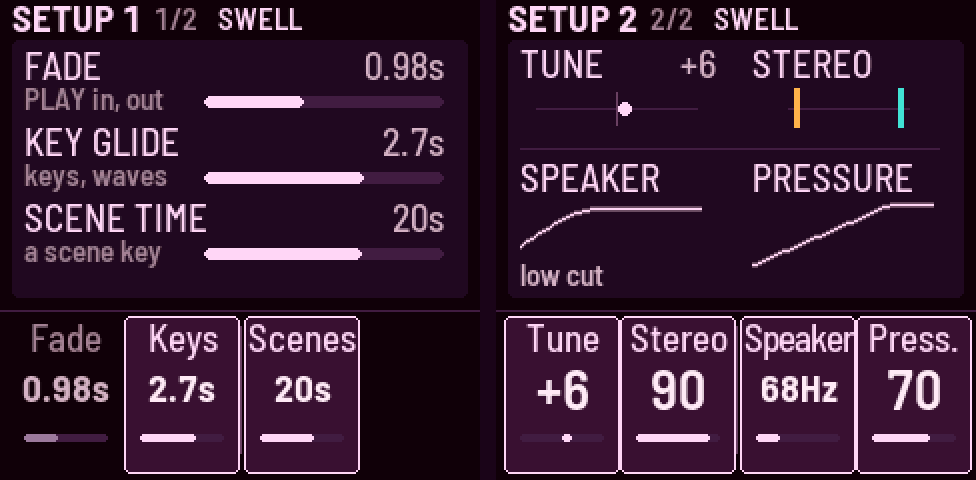
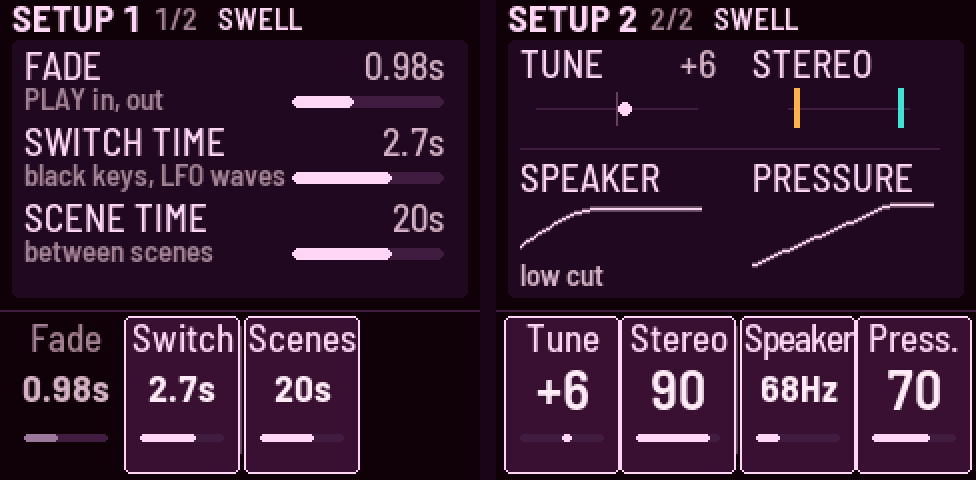
Switch time and Pitch glide: clearer names for the times
"Key glide" with "keys, waves" read like a musical key, next to Glide.
Now Setup 1 says SWITCH TIME (black keys, LFO waves) and SCENE TIME
(between scenes), with the bars moved right to fit the hints; Glide on
Pitch moves is Pitch glide.

diff --git a/web/emu/index.html b/web/emu/index.html
@@ -384,7 +384,7 @@ kbd { font: 500 .85em var(--mono); background: var(--card); border: 1px solid va
         <div class="g-btn">SEQ</div>
         <div class="pstack">
         <div class="g-page"><i>Partner</i><span class="k d1"><span class="sr">Knob 1, drone I: </span>Interval<small>its gap, tempered or just</small></span><span class="k d1"><span class="sr">Knob 2, drone I: </span>Detune</span><span class="k d2"><span class="sr">Knob 3, drone II: </span>Interval<small>its gap, tempered or just</small></span><span class="k d2"><span class="sr">Knob 4, drone II: </span>Detune</span></div>
-        <div class="g-page"><i>Pitch moves</i><span class="k both"><span class="sr">Knob 1: </span>Shift<small>its move, a 5th down–up</small></span><span class="k both"><span class="sr">Knob 2: </span>Glide<small>pitch slides</small></span><span class="k d2"><span class="sr">Knob 3, drone II: </span>Wander<small>a random melody: how often</small></span><span class="k d2"><span class="sr">Knob 4, drone II: </span>Scale<small>Wander’s notes</small></span></div>
+        <div class="g-page"><i>Pitch moves</i><span class="k both"><span class="sr">Knob 1: </span>Shift<small>its move, a 5th down–up</small></span><span class="k both"><span class="sr">Knob 2: </span>Pitch glide<small>pitch slides</small></span><span class="k d2"><span class="sr">Knob 3, drone II: </span>Wander<small>a random melody: how often</small></span><span class="k d2"><span class="sr">Knob 4, drone II: </span>Scale<small>Wander’s notes</small></span></div>
         </div>
       </div>
     </div>
@@ -528,7 +528,7 @@ kbd { font: 500 .85em var(--mono); background: var(--card); border: 1px solid va
       <div class="pblock">
         <div class="g-btn">GLO</div>
         <div class="pstack">
-        <div class="g-page"><i>Setup 1</i><span class="k both"><span class="sr">Knob 1: </span>Fade<small>PLAY’s fade</small></span><span class="k both"><span class="sr">Knob 2: </span>Key glide<small>keys, waves</small></span><span class="k both"><span class="sr">Knob 3: </span>Scene time<small>every scene move</small></span><span class="k both none"><span class="sr">Knob 4: </span>–</span></div>
+        <div class="g-page"><i>Setup 1</i><span class="k both"><span class="sr">Knob 1: </span>Fade<small>PLAY’s fade</small></span><span class="k both"><span class="sr">Knob 2: </span>Switch time<small>black keys, LFO waves</small></span><span class="k both"><span class="sr">Knob 3: </span>Scene time<small>between scenes</small></span><span class="k both none"><span class="sr">Knob 4: </span>–</span></div>
         <div class="g-page"><i>Setup 2</i><span class="k both"><span class="sr">Knob 1: </span>Tune<small>±50 cents</small></span><span class="k both"><span class="sr">Knob 2: </span>Stereo<small>width</small></span><span class="k both"><span class="sr">Knob 3: </span>Speaker<small>low cut</small></span><span class="k both"><span class="sr">Knob 4: </span>Pressure<small>light ↔ firm</small></span></div>
         </div>
       </div>
@@ -665,8 +665,8 @@ function hit(c, cls) {
 // what each control does, on hover (the Buttons list below says the same)
 const TIP = { FX: "Delay: type, time, repeats, mix (again: Reverb: type, length to Inf, damp, mix)", SEL: "Hold while turning: fine (pitch in cents, cutoff and resonance in tenths)",
   ENV: "Tone 1: noise and its colour, white to pink (again: Life: character, feedback, age, drift); hold to peek", LFO: "LFO depths: each drone's osc and filter depth; the keys pick the routing (again: Mods: rate mod, cross-mod amount, delay LFO)",
-  EDIT: "Osc: X-Wave, pulse width (again: Sub · Drive: osc mix, drive); hold to peek", GLO: "Setup 1: fade, key glide, scene time (again: Setup 2: tune, stereo width, speaker, pressure)",
-  HOME: "Play 1: pitch, cutoff (again: Play 2: levels, resonance)", SAVE: "Save; hold it first, then tap a white key: store a scene", ARP: "Swell: tap on / off, hold to peek at its page, tap twice to stay on it", SEQ: "Partner: interval, detune (again: Pitch moves: Shift's move, glide, Wander, its scale)",
+  EDIT: "Osc: X-Wave, pulse width (again: Sub · Drive: osc mix, drive); hold to peek", GLO: "Setup 1: fade, switch time, scene time (again: Setup 2: tune, stereo width, speaker, pressure)",
+  HOME: "Play 1: pitch, cutoff (again: Play 2: levels, resonance)", SAVE: "Save; hold it first, then tap a white key: store a scene", ARP: "Swell: tap on / off, hold to peek at its page, tap twice to stay on it", SEQ: "Partner: interval, detune (again: Pitch moves: Shift's move, pitch glide, Wander, its scale)",
   PLAY: "Drone in / out", REC: "Motion loop: tap to record knob moves, again to loop, again to stop", "OCT-": "LFO Wave I: tap for the next shape (with SEL: the one before)", "OCT+": "LFO Wave II: tap for the next shape (with SEL: the one before)",
   SELECT: "LFO rate", PRESETS: "Gesture time: every gesture faster or slower", ALGORITHM: "Movement: every LFO depth together",
   KNOB1: "Drone I", KNOB2: "Drone I", KNOB3: "Drone II", KNOB4: "Drone II", MASTER: "Volume" };

diff --git a/firmware/src/app/ui.c b/firmware/src/app/ui.c
@@ -14,7 +14,7 @@
  * only while it's held, and the page you were on comes back when it's let go):
  *   HOME Play, Play 2 (Level, Reso) · ENV Tone (Noise, Colour: white .. pink) · EDIT Osc (X-Wave, PW), Source
  *   (Osc mix, Drive) · LFO LFO (depths), Mod (Rate mod, Mod by, X-mod amount, Delay LFO depth) · SEQ Partner ·
- *   GLO Setup, Setup 2 (Key glide, Scene time, Tune, Tuning), Setup 3 (Speaker,
+ *   GLO Setup, Setup 2 (Switch time, Scene time, Tune, Tuning), Setup 3 (Speaker,
  *   Pressure) (global). The top bar shows a dot for each of a
  *   button's pages.
  *   OCT- / OCT+    the LFO's Wave I / Wave II: a tap is the next shape, round and round; SEL + OCT the one
@@ -546,7 +546,7 @@ static void page_up(int b)
 static float morph_ms(void) { return 20.0f * fm_exp2f((float)proj.par[P_MORPH] * 0.105507f); }
 
 /* OCT- / OCT+: the LFO's two waves (v0.2): a tap is the next shape, round and round (Off, the seven, random);
- * SEL + OCT the one before. The engine glides a new shape in over the Key glide time. Shown in the top bar */
+ * SEL + OCT the one before. The engine glides a new shape in over the Switch time. Shown in the top bar */
 static void hands_on(int p) { ui.hands[p / 64] |= (uint64_t)1 << (p % 64); }
 static int hands_has(int p) { return (int)(ui.hands[p / 64] >> (p % 64) & 1u); }
 static void hands_clear(void) { memset(ui.hands, 0, sizeof ui.hands); }
@@ -624,7 +624,7 @@ static void loop_apply(int p, int v, uint32_t slide)
 }
 
 static void loop_rewind(void)                  /* the start of a pass: what the loop moves, back to how it */
-{                                              /* began, gliding over the Key glide time (no seam) */
+{                                              /* began, gliding over the Switch time (no seam) */
     int p;
     uint32_t back = (uint32_t)morph_ms();
     for (p = 0; p < DR_NPARAMS; p++)
@@ -1403,7 +1403,8 @@ static const char *card_name(int p)
     case P_CHAR: return "Char.";
     case P_FEEDBACK: return "Feedbk";
     case P_LFO_RMOD: return "R. mod";
-    case P_MORPH: return "Keys";               /* Key glide */
+    case P_MORPH: return "Switch";             /* Switch time */
+    case P_GLIDE: return "Glide";              /* Pitch glide */
     case P_PRESS_SENS: return "Press.";
     default: break;
     }
@@ -2259,24 +2260,24 @@ static void keymap_values(void)                /* the values' place: the key tou
     cv_text(10, 72, &FONT_XS, "with SEL:  D5-G5 bank   OCT wave back", K_DIM);
 }
 
-/* Setup 1: the three times, a row each: FADE (KNOB 1, PLAY's fade in and out), KEY GLIDE (KNOB 2, a black key's or
+/* Setup 1: the three times, a row each: FADE (KNOB 1, PLAY's fade in and out), SWITCH TIME (KNOB 2, a black key's or
  * a wave's move to its new setting), SCENE TIME (KNOB 3, every scene move); each a bar as far as its knob and its time. None is in scenes */
 static void pic_setup(int32_t y0)
 {
     static const uint8_t P[3] = {P_FADE, P_MORPH, P_SCENE_T};
-    static const char *const N[3] = {"FADE", "KEY GLIDE", "SCENE TIME"},
-                             *const W[3] = {"PLAY in, out", "keys, waves", "a scene key"};
+    static const char *const N[3] = {"FADE", "SWITCH TIME", "SCENE TIME"},
+                             *const W[3] = {"PLAY in, out", "black keys, LFO waves", "between scenes"};
     int r;
     for (r = 0; r < 3; r++) {
-        int32_t y = y0 + 4 + r * 38, w = 120 * proj.par[P[r]] / 100;
+        int32_t y = y0 + 4 + r * 38, w = 76 * proj.par[P[r]] / 100;   /* the bars right of the hints */
         char t[16];
         cv_text(12, y, &FONT_S, N[r], K_SETUP);
         cv_text(12, y + 18, &FONT_XS, W[r], K_DIM);
         dr_param_text(P[r], proj.par[P[r]], t);
         text_r(222, y, t, K_TEXT2);
-        cv_round(102, y + 24, 120, 6, 3, K_GRID);
+        cv_round(146, y + 24, 76, 6, 3, K_GRID);
         if (w > 3)
-            cv_round(102, y + 24, w, 6, 3, K_SETUP);
+            cv_round(146, y + 24, w, 6, 3, K_SETUP);
     }
 }
 

diff --git a/firmware/src/dsp/drone.c b/firmware/src/dsp/drone.c
@@ -42,13 +42,13 @@ static const dr_param_t PARAMS[DR_NPARAMS] = {
     VOICE_PARAMS(5700, 33, 14, 15, 680, 52, DR_LFO_II, DR_LFO_II, -85),  /* II: A3, triangle, partner an octave up */
     {"Cross-mod", 0, 1, 0}, {"X-mod amt", 0, 100, 40}, {"Hard sync", 0, 1, 0}, {"Pitch link", 0, 1, 0},
     {"Link ofs", -2400, 2400, 700}, {"LFO rate", 0, 100, 8}, {"Wave I", 0, DR_LFO_NSHAPES - 1, 1},
-    {"Wave II", 0, DR_LFO_NSHAPES - 1, 8}, {"Glide", 0, 100, 0}, {"Fade", 0, 100, 42}, {"Drift", 0, 100, 30},
+    {"Wave II", 0, DR_LFO_NSHAPES - 1, 8}, {"Pitch glide", 0, 100, 0}, {"Fade", 0, 100, 42}, {"Drift", 0, 100, 30},
     {"Stereo", 0, 100, 60}, {"Tune", -50, 50, 0},
     {"Pulse", 0, 1, 1}, {"Rate", 0, 100, 6}, {"Depth", 0, 100, 40}, {"Shape", 0, 100, 25}, {"Swing", 0, 50, 0},
     {"Time", 0, 100, 50}, {"Repeats", 0, 100, 50}, {"Dly mix", 0, 100, 25}, {"Rev mix", 0, 100, 35},
     {"Type", 0, DR_NREV - 1, 2}, {"Dly LFO", DR_LFO_I, DR_LFO_BOTH, DR_LFO_I}, {"Dly LFO", -100, 100, 20},
     {"LFO lock", 0, 1, 0}, {"Rate mod", -100, 100, 0}, {"Mod by", DR_LFO_I, DR_LFO_BOTH, DR_LFO_II},
-    {"Key glide", 0, 100, 47}, {"Scene time", 0, 100, 46}, {"II out", 0, 1, 0}, {"Speaker", 0, 100, 0},
+    {"Switch time", 0, 100, 47}, {"Scene time", 0, 100, 46}, {"II out", 0, 1, 0}, {"Speaker", 0, 100, 0},
     {"Pitch lock", 0, 1, 1}, {"Movement", 0, 100, 50}, {"Feedback", 0, 100, 0}, {"Character", 0, 100, 0},
     {"Wander", 0, 100, 0}, {"Age", 0, 100, 0}, {"Shift move", 0, 2 * DR_SHIFT_MID, 2 * DR_SHIFT_MID}, {"Scale", 0, DR_NWSCALE - 1, 0},
     {"D5 depth", 0, 100, 70}, {"E5 depth", 0, 100, 100}, {"F5 depth", 0, 100, 100}, {"G5 depth", 0, 100, 70},

diff --git a/README.md b/README.md
@@ -36,7 +36,7 @@ banks you pick with SEL and the top four.*
   a reverb of four (Room, Hall, Cathedral, Chorus hall) whose length goes to Inf, a freeze.
 - **Feedback** (the finished sound fed back into the drones) and **Character** (clean to vintage).
 - **Drift**: the drones are never quite still; pitch, cutoff, timbre, level and detune slowly wander.
-- **Key glide**: buttons and keys never jump: the sound moves to a new setting over a time you set.
+- **Switch time**: buttons and keys never jump: the sound moves to a new setting over a time you set.
 - **Scenes**: 12 on the white keys in each of three banks (36 of yours), plus a Presets bank, recalled
   gliding over the Scene time, or **crossfaded into by pressing the key harder**; a **motion loop** that records your knob
   moves.
@@ -148,15 +148,15 @@ glides: a slow turn is a smooth sweep, never steps; turn faster to go further.
 | Page | KNOB 1 | KNOB 2 | KNOB 3 | KNOB 4 |
 |---|---|---|---|---|
 | Partner | I interval | I detune | II interval | II detune |
-| Pitch moves | Shift's move | glide | II wander | Wander's scale |
+| Pitch moves | Shift's move | pitch glide | II wander | Wander's scale |
 
 - **Shift's move** is where the Shift gesture takes the drones: from a fifth down through none in the middle to a
   fifth up, 10 cents a detent, 1 with SEL held; it lights while Shift (E5) is in. See [The gestures](#the-gestures).
 - **Wander** gives drone II a slow random melody: it jumps from note to note in no order, the notes of a scale on
   drone I (in any octave, up to an octave from its own pitch), and only now and then comes home. The knob is **how
   often**, at random times within a range: 25–30 s apart at the bottom, 0.5–2 s at the top; the screen shows the
-  range. It doesn't glide by itself: **Glide** slides it. At 0 it's off.
-- **Glide** is how long a drone takes to reach a new pitch (up to 10 s; off by default): a pitch knob, a scene,
+  range. It doesn't glide by itself: **Pitch glide** slides it. At 0 it's off.
+- **Pitch glide** is how long a drone takes to reach a new pitch (up to 10 s; off by default): a pitch knob, a scene,
   Wander's notes.
 - **Wander's scale**: minor pentatonic, major pentatonic, fifths and octaves, whole tone, Dorian, or just (the
   harmonics 1–8 of drone I, pure: the root, the pure major third, fifth and the seventh harmonic).
@@ -221,16 +221,16 @@ glides: a slow turn is a smooth sweep, never steps; turn faster to go further.
 
 #### Setup · GLO
 
-<img src="docs/img/page-setup.png" width="488" alt="The Setup 1 and 2 pages: the fade, key glide and scene times; the tune, stereo width, the speaker's low cut and the keys' pressure">
+<img src="docs/img/page-setup.png" width="488" alt="The Setup 1 and 2 pages: the fade, switch and scene times; the tune, stereo width, the speaker's low cut and the keys' pressure">
 
 | Page | KNOB 1 | KNOB 2 | KNOB 3 | KNOB 4 |
 |---|---|---|---|---|
-| Setup 1 | fade | key glide | scene time | |
+| Setup 1 | fade | switch time | scene time | |
 | Setup 2 | tune | stereo | speaker (low cut) | pressure |
 
 Everything on GLO belongs to the FM-1 and the room, not to a sound: scenes don't change it.
 
-- **Fade** is how long PLAY takes (up to 60 s); **Key glide** is how long a black key or a new LFO wave (OCT) takes
+- **Fade** is how long PLAY takes (up to 60 s); **Switch time** is how long a black key or a new LFO wave (OCT) takes
   to move the sound to its new setting (0.02–30 s); **Scene time** is how long every scene move takes: a tap, a
   crossfade pressed all the way in at once, and the way back (0.1 s to 5 minutes; about 4 s to start).
 - **Tune** moves everything up or down by up to 50 cents. **Stereo** spreads the drones from mono to drone I
@@ -328,7 +328,7 @@ key.
 
 | | |
 |---|---|
-| **White key** (the lower 12, F3–C5): **tap** | morph to the scene stored there in the current bank, over the Scene time, and stay (turn a knob to stop part way). A tap is anything you let go under half a second, however hard, as with the gesture keys. A scene keeps the sound, not the room: Speaker, Pressure, Stereo, Tune, Pitch lock, Fade, Key glide and Scene time stay as they are |
+| **White key** (the lower 12, F3–C5): **tap** | morph to the scene stored there in the current bank, over the Scene time, and stay (turn a knob to stop part way). A tap is anything you let go under half a second, however hard, as with the gesture keys. A scene keeps the sound, not the room: Speaker, Pressure, Stereo, Tune, Pitch lock, Fade, Switch time and Scene time stay as they are |
 | **Hold and press** a scene key | a **crossfade**: the harder you press, the further the sound moves from where it was into that scene (a light rest does nothing). It glides there no faster than the Scene time, so pressing hard at once glides in as a tap does, and pressing slowly follows your finger. The key gets brighter as you go in; the screen says how far ("A5 40%"). **Let go** and it glides back to where it began, at the same speed. Press it again on the way back and you pick up from there |
 | **Press all the way** (and hold a moment) | the scene is **taken**: the key flashes, and letting go keeps it |
 | **Press SEL while holding**, then let go | the blend **holds** where it is from the moment SEL goes down until you let go of the scene key (lifting your finger can't move it, and nor can letting go of SEL first), and **stays**: a sound of its own between the two |

diff --git a/docs/decisions.md b/docs/decisions.md
@@ -301,3 +301,5 @@ at the end. The current state is in the [README](../README.md) and the code.
   5.7 and 8.9 Hz), no longer adding Character (P7 Tape's Character 70 → 98). Card labels one size up (FONT_S), with
   Char., Feedbk, Press., Keys, R. mod, and Osc / Filter on LFO depths on the cards. The LFO key layer and SEL on the
   top keys stay. Fix: Age's wow no longer freezes once Age has worn in.
+- 2026-10-20 (Evan): Key glide is **Switch time** ("black keys, LFO waves"; card "Switch"); Scene time's hint is
+  "between scenes"; Glide is **Pitch glide** (card "Glide").
